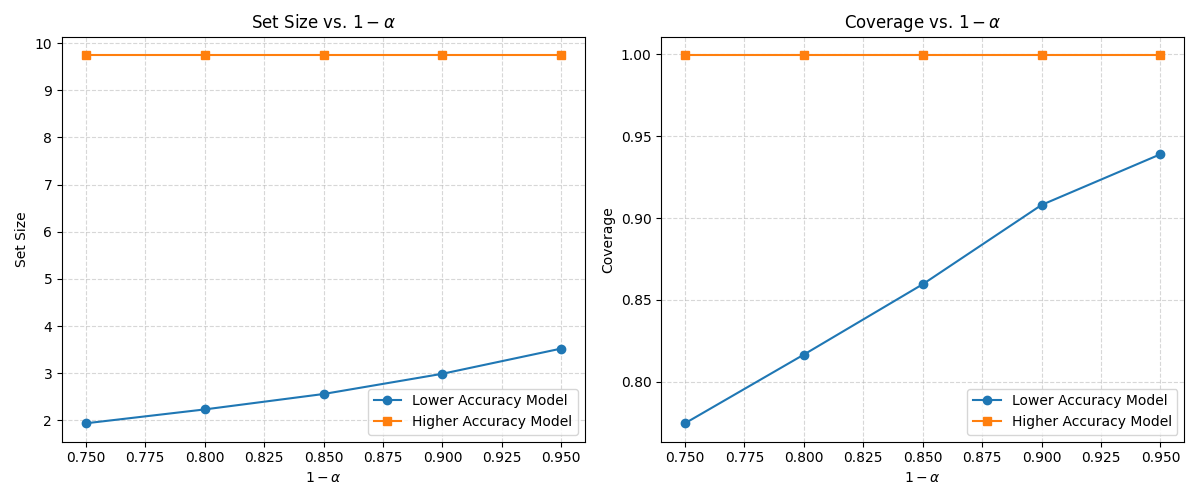
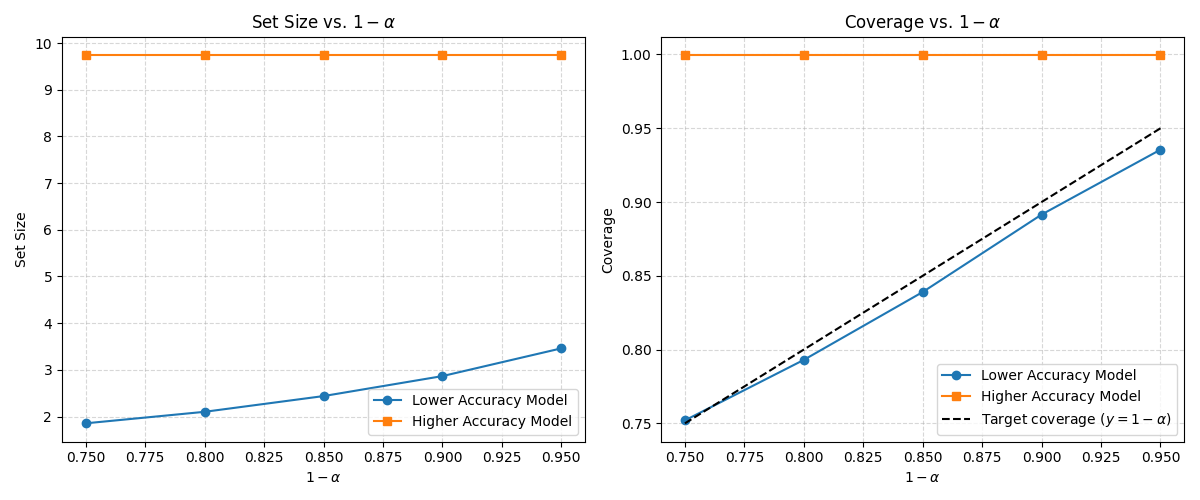
add random only aps

diff --git a/randomaps.py b/randomaps.py
@@ -1,0 +1,123 @@
+import torch
+from torchvision.datasets import MNIST
+from torchvision.transforms import v2
+import numpy as np
+import classifier1
+import classifier2
+from matplotlib import pyplot as plt
+
+
+def ncscore(scores, labels, rng):
+
+    correctscores = scores[np.arange(len(labels)), labels].reshape(-1, 1)
+    mass_above = np.sum(scores * (scores > correctscores), axis=1)
+    u = rng.uniform(size=len(labels))
+    return mass_above + u * correctscores[:, 0]
+
+
+def run(alpha, N, labels, idx, scores, rng):
+    calibration_labels = labels[idx]
+    calibration_scores = scores[idx]
+    test_scores = scores[~idx]
+    test_labels = labels[~idx]
+
+    ncscores = ncscore(calibration_scores, calibration_labels, rng)
+    quantile = np.ceil((N + 1) * (1 - alpha)) / N
+    q_hat = np.quantile(ncscores, quantile, method="higher")
+
+    test_order = np.flip(np.argsort(test_scores, axis=1), axis=1)
+    sorted_scores = np.take_along_axis(test_scores, test_order, axis=1)
+    mass_above = np.cumsum(sorted_scores, axis=1) - sorted_scores
+    u = rng.uniform(size=(test_scores.shape[0], 1))
+    include_sorted = (mass_above + u * sorted_scores) <= q_hat
+
+    prediction_sets = np.take_along_axis(include_sorted,
+                                         test_order.argsort(axis=1),
+                                         axis=1)
+
+    empirical_coverage = prediction_sets[np.arange(prediction_sets.shape[0]), test_labels].mean()
+    set_sizes = prediction_sets.sum(axis=1)
+    meansize = set_sizes.mean()
+
+    return (empirical_coverage, meansize)
+
+
+def makegraphs(idx, bad_scores, good_scores, labels, N, rng):
+    alphas = np.arange(0.05, 0.30, 0.05)
+    x = 1 - alphas
+
+    bad_results = np.array([
+        run(alpha, N, labels, idx, bad_scores, rng) for alpha in alphas
+    ])
+    good_results = np.array([
+        run(alpha, N, labels, idx, good_scores, rng) for alpha in alphas
+    ])
+
+    # run() returns (coverage, set_size)
+    bad_coverage, bad_set_size = bad_results[:, 0], bad_results[:, 1]
+    good_coverage, good_set_size = good_results[:, 0], good_results[:, 1]
+
+    fig, axes = plt.subplots(1, 2, figsize=(12, 5))
+
+    # Set size vs. 1 - alpha
+    axes[0].plot(x, bad_set_size, marker='o', linestyle='-',
+                 label='Lower Accuracy Model')
+    axes[0].plot(x, good_set_size, marker='s', linestyle='-',
+                 label='Higher Accuracy Model')
+    axes[0].set_xlabel(r'$1 - \alpha$')
+    axes[0].set_ylabel('Set Size')
+    axes[0].set_title(r'Set Size vs. $1 - \alpha$')
+    axes[0].legend()
+    axes[0].grid(True, linestyle='--', alpha=0.5)
+
+    # Coverage vs. 1 - alpha
+    axes[1].plot(x, bad_coverage, marker='o', linestyle='-',
+                 label='Lower Accuracy Model')
+    axes[1].plot(x, good_coverage, marker='s', linestyle='-',
+                 label='Higher Accuracy Model')
+    axes[1].plot(x, x, color='black', linestyle='--',
+                 label=r'Target coverage ($y = 1 - \alpha$)')
+    axes[1].set_xlabel(r'$1 - \alpha$')
+    axes[1].set_ylabel('Coverage')
+    axes[1].set_title(r'Coverage vs. $1 - \alpha$')
+    axes[1].legend()
+    axes[1].grid(True, linestyle='--', alpha=0.5)
+
+    plt.tight_layout()
+    plt.savefig('graphs/conformal_adaptive_random_comparison.png')
+    plt.show()
+
+
+N = 1000  # calibration
+M = 2000  # test
+n = 3000
+
+rng = np.random.default_rng(0)
+
+badmodel = classifier1.Net()
+badmodel.load_state_dict(torch.load("models/mnist_bad.pth"))
+badmodel.eval()
+
+goodmodel = classifier2.Net()
+goodmodel.load_state_dict(torch.load("models/mnist_good.pth"))
+goodmodel.eval()
+
+data = MNIST(
+    root="data",
+    download=True,
+    train=False,
+    transform=v2.ToTensor()
+)
+
+images = torch.stack([data[i][0] for i in range(n)])
+labels = data.targets.numpy()[:n]
+
+with torch.no_grad():
+    logits = badmodel(images)
+    bad_scores = torch.softmax(logits, dim=1).numpy()
+    logits = goodmodel(images)
+    good_scores = torch.softmax(logits, dim=1).numpy()
+
+idx = np.array([1] * N + [0] * M) > 0
+rng.shuffle(idx)
+makegraphs(idx, bad_scores, good_scores, labels, N, rng)

diff --git a/adaptiveprediction.py b/adaptiveprediction.py
@@ -72,6 +72,8 @@ def makegraphs(idx, bad_scores, good_scores, labels, N):
                  label='Lower Accuracy Model')
     axes[1].plot(x, good_coverage, marker='s', linestyle='-',
                  label='Higher Accuracy Model')
+    axes[1].plot(x, x, color='black', linestyle='--',
+                 label=r'Target coverage ($y = 1 - \alpha$)')
     axes[1].set_xlabel(r'$1 - \alpha$')
     axes[1].set_ylabel('Coverage')
     axes[1].set_title(r'Coverage vs. $1 - \alpha$')

diff --git a/conformalprediction.py b/conformalprediction.py
@@ -59,6 +59,8 @@ def makegraphs(idx, bad_scores, good_scores, labels, N):
                  label='Lower Accuracy Model')
     axes[1].plot(x, good_coverage, marker='s', linestyle='-',
                  label='Higher Accuracy Model')
+    axes[1].plot(x, x, color='black', linestyle='--',
+                 label=r'Target coverage ($y = 1 - \alpha$)')
     axes[1].set_xlabel(r'$1 - \alpha$')
     axes[1].set_ylabel('Coverage')
     axes[1].set_title(r'Coverage vs. $1 - \alpha$')
